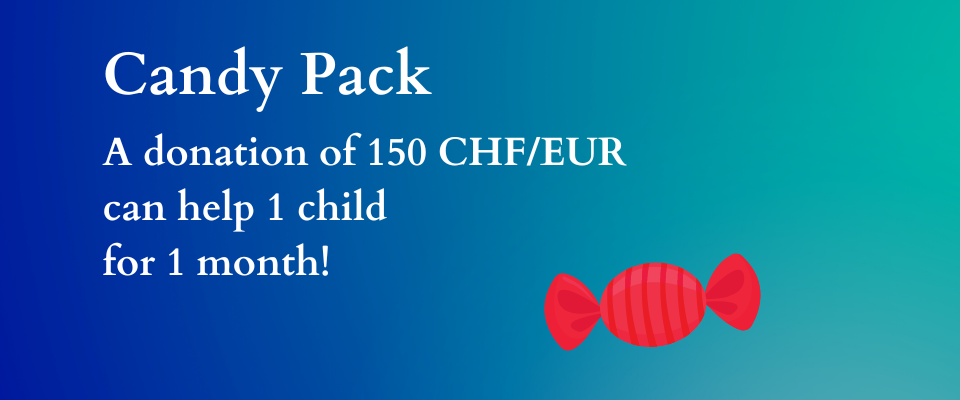
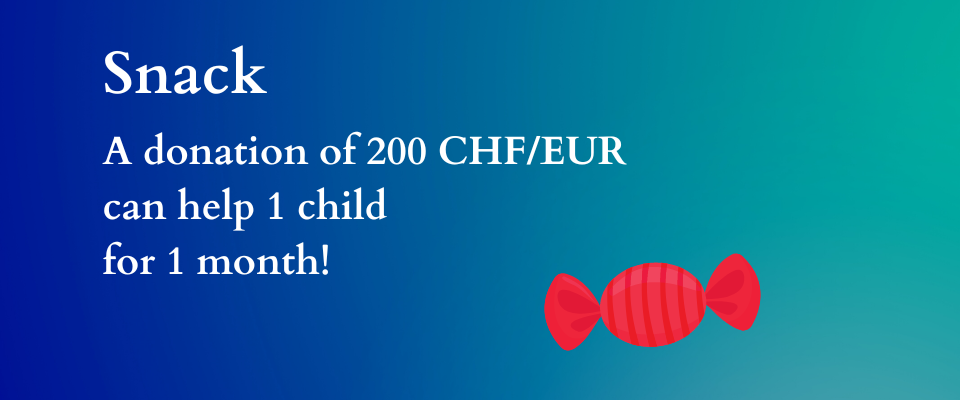
Update bank and packs

diff --git a/_pages/street-kids.md b/_pages/street-kids.md
@@ -85,7 +85,7 @@ We have weekly videocalls of 30 minutes, every Sunday:
 
 # Make a Donation {#donation}
 
-With **150 euros/swiss francs per month**, we can feed a kid two meals a day and provide them with shelter and education: school, supplies, clothes!
+With **200 euros/swiss francs per month**, we can feed a kid two meals a day and provide them with shelter and education: school, supplies, clothes!
 
 <!--
 <p style="text-align: center;">
@@ -100,6 +100,7 @@ To donate through a bank transfer, here is our details:
 - Account holder: <code id="holder">District Rotary 1990, Comission Rotaract</code>
 - IBAN: <code id="iban">CH30 8080 8003 8478 5531 6</code>
 - BIC/SWIFT: <code id="bic">RAIF CH22 XXX</code>
+- IID (NCB): <code id="iid">80241</code>
 
 {% include gallery-btn
   large=false
@@ -109,9 +110,11 @@ To donate through a bank transfer, here is our details:
   ]'
 %}
 {% include gallery-btn
-  large=true
+  large=false
   items='[
-    { name: "Copy Account Holder", icon: "fas fa-copy fa-lg", url: "javascript:navigator.clipboard.writeText($(\'#holder\').text())" }
+    {
+      name: "Copy Account Holder", icon: "fas fa-copy fa-lg", url: "javascript:navigator.clipboard.writeText($(\'#holder\').text())" },
+      { name: "Copy IID (NCB)", icon: "fas fa-copy fa-lg", url: "javascript:navigator.clipboard.writeText($(\'#iid\').text())" }
   ]'
 %}
 
